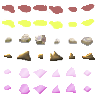
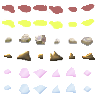
ADD Bubble types

diff --git a/src/BubbleEntity.cpp b/src/BubbleEntity.cpp
@@ -7,11 +7,12 @@
 #include "Constants.h"
 #include "WitchBlastGame.h"
 
-BubbleEntity::BubbleEntity(float x, float y, int bubbleSize)
+BubbleEntity::BubbleEntity(float x, float y, EnumBubbleType bubbleType, int bubbleSize)
   : EnemyEntity (ImageManager::getInstance().getImage(IMAGE_BUBBLE), x, y)
 {
   this->bubbleSize = bubbleSize;
-  imagesProLine = 8;
+  this->bubbleType = bubbleType;
+  imagesProLine = 2;
 
   frame = 0;
   enemyType = EnemyTypeBubble;
@@ -57,6 +58,13 @@ BubbleEntity::BubbleEntity(float x, float y, int bubbleSize)
   bloodColor = BloodNone;
   shadowFrame = 1;
 
+  if (bubbleType == BubbleIce)
+  {
+    frame = 2;
+    shadowFrame = 3;
+    meleeType = ShotTypeIce;
+  }
+
   width = 128;
   height = 128;
   sprite.setOrigin(64, 64);
@@ -66,26 +74,6 @@ BubbleEntity::BubbleEntity(float x, float y, int bubbleSize)
 int BubbleEntity::getBubbleSize()
 {
   return bubbleSize;
-}
-
-void BubbleEntity::render(sf::RenderTarget* app)
-{
-  if (!isDying && shadowFrame > -1)
-  {
-    // shadow
-    sprite.setPosition(x, y);
-    sprite.setTextureRect(sf::IntRect(shadowFrame * width, 0, width, height));
-    app->draw(sprite);
-  }
-  sprite.setPosition(x, y - 5);
-  sprite.setTextureRect(sf::IntRect(0, 0, width, height));
-  app->draw(sprite);
-
-  if (game().getShowLogical())
-  {
-    displayBoundingBox(app);
-    displayCenterAndZ(app);
-  }
 }
 
 void BubbleEntity::calculateBB()
@@ -143,16 +131,12 @@ void BubbleEntity::dying()
 
   if (bubbleSize < 4)
   {
-    BubbleEntity* b1 = new BubbleEntity(x - 5 + rand() % 10, y - 5 + rand() % 10, bubbleSize + 1);
-    BubbleEntity* b2 = new BubbleEntity(x - 5 + rand() % 10, y - 5 + rand() % 10, bubbleSize + 1);
-    if (specialState[SpecialStateIce].active)
+    int nbBubbles = 2;
+    if (bubbleType == BubbleTriple) nbBubbles = 3;
+    for (int i = 0; i < nbBubbles; i++)
     {
-      b1->setSpecialState(SpecialStateIce,
-                          true,
-                          specialState[SpecialStateIce].timer,
-                          specialState[SpecialStateIce].param1,
-                          specialState[SpecialStateIce].param2);
-      b2->setSpecialState(SpecialStateIce,
+      BubbleEntity* b = new BubbleEntity(x - 5 + rand() % 10, y - 5 + rand() % 10, bubbleType, bubbleSize + 1);
+      b->setSpecialState(SpecialStateIce,
                           true,
                           specialState[SpecialStateIce].timer,
                           specialState[SpecialStateIce].param1,
@@ -161,7 +145,7 @@ void BubbleEntity::dying()
   }
 
   for (int i = 0; i < 5 - bubbleSize; i++)
-    game().generateBlood(x, y, BloodBubble);
+    game().generateBlood(x, y, bubbleType == BubbleIce ? BloodBubbleIce : BloodBubble);
 
   SoundManager::getInstance().playSound(SOUND_BUBBLE_00 + rand() % 2);
 }

diff --git a/src/BubbleEntity.h b/src/BubbleEntity.h
@@ -3,10 +3,12 @@
 
 #include "EnemyEntity.h"
 
+enum EnumBubbleType { BubbleStandard, BubbleIce, BubbleTriple };
+
 class BubbleEntity : public EnemyEntity
 {
   public:
-    BubbleEntity(float x, float y, int bubbleSize);
+    BubbleEntity(float x, float y, EnumBubbleType bubbleType, int bubbleSize);
     virtual void calculateBB();
     int getBubbleSize();
 
@@ -17,11 +19,11 @@ class BubbleEntity : public EnemyEntity
     virtual void collideMapBottom();
 
     virtual void dying();
-    virtual void render(sf::RenderTarget* app);
 
     virtual void collideWithEnemy(EnemyEntity* entity) override;
   private:
     int bubbleSize;
+    EnumBubbleType bubbleType;
 };
 
 #endif // BUBBLEENTITY_H

diff --git a/src/BaseCreatureEntity.h b/src/BaseCreatureEntity.h
@@ -36,6 +36,8 @@ enum enemyTypeEnum
 
   // mini boss
   EnemyTypeBubble,
+  EnemyTypeBubbleIce,
+  EnemyTypeBubbleGreater,
 
   // boss
   EnemyTypeButcher,
@@ -119,7 +121,7 @@ class BaseCreatureEntity : public CollidingSpriteEntity
     virtual void dying();
     enum enumMovingStyle { movWalking, movFlying};
     virtual enumMovingStyle getMovingStyle();
-    enum enumBloodColor { BloodNone = -1, BloodRed, BloodGreen, BloodRock, BloodEgg, BloodBubble};
+    enum enumBloodColor { BloodNone = -1, BloodRed, BloodGreen, BloodRock, BloodEgg, BloodBubble, BloodBubbleIce};
     enum enumSpecialState
     {
       SpecialStateIce, // = 0

diff --git a/src/Scoring.h b/src/Scoring.h
@@ -55,6 +55,8 @@ int getMonsterScore(enemyTypeEnum monster)
     case EnemyTypeZombieDark:     score = 25; break;
 
     case EnemyTypeBubble:         score = 25; break;
+    case EnemyTypeBubbleIce:      score = 30; break;
+    case EnemyTypeBubbleGreater:  score = 35; break;
 
     case EnemyTypeButcher:        score = 30; break;
     case EnemyTypeSlimeBoss:      score = 60; break;
